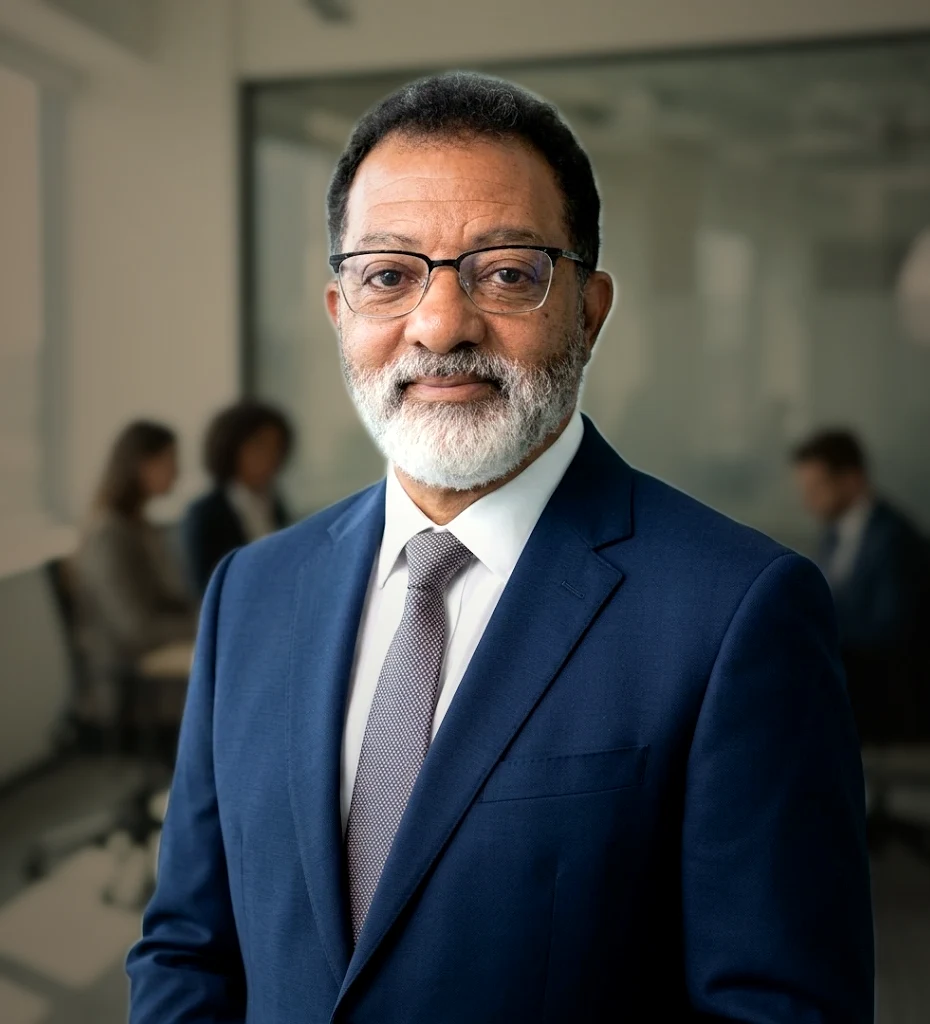
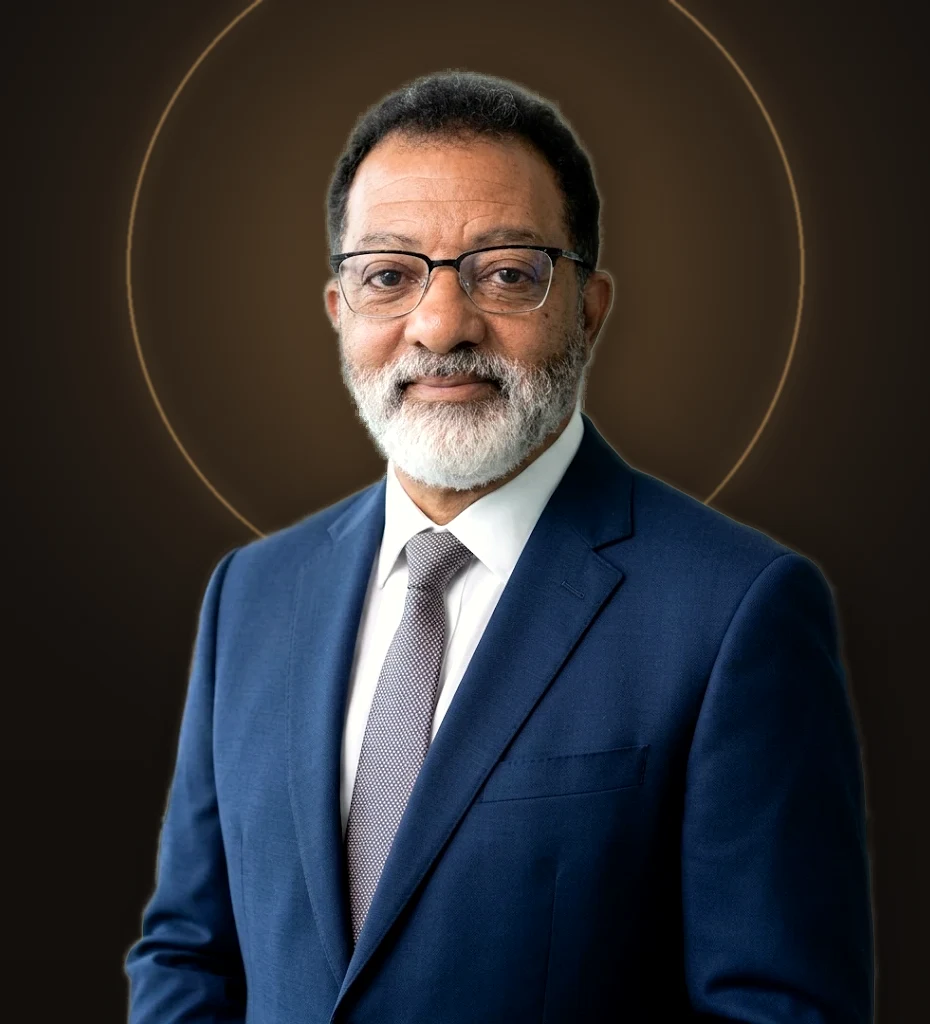
Black Apple Group: Joseph portrait on a plain warm backdrop with gold halo
Claude-Session: https://claude.ai/code/session_015v1gBit4LJoqSJVaqvU2tk

diff --git a/portfolio/concepts/black-apple-group/index.html b/portfolio/concepts/black-apple-group/index.html
@@ -242,7 +242,7 @@
       <button class="btn btn--glass" type="button" data-video>Watch the 85-second welcome</button>
     </div>
     <figure class="jcard">
-      <img src="assets/img/joseph-pro.webp?v=2" alt="Joseph Hull, founder of Black Apple Group" width="930" height="1024" loading="lazy">
+      <img src="assets/img/joseph-pro.webp?v=3" alt="Joseph Hull, founder of Black Apple Group" width="930" height="1024" loading="lazy">
       <button class="jcard__play" type="button" data-video aria-label="Play Joseph's welcome video"><span>▶</span>Watch his 85-second welcome</button>
       <figcaption><b>Joseph Hull</b><span>Founder · Licensed since 1991</span></figcaption>
     </figure>
